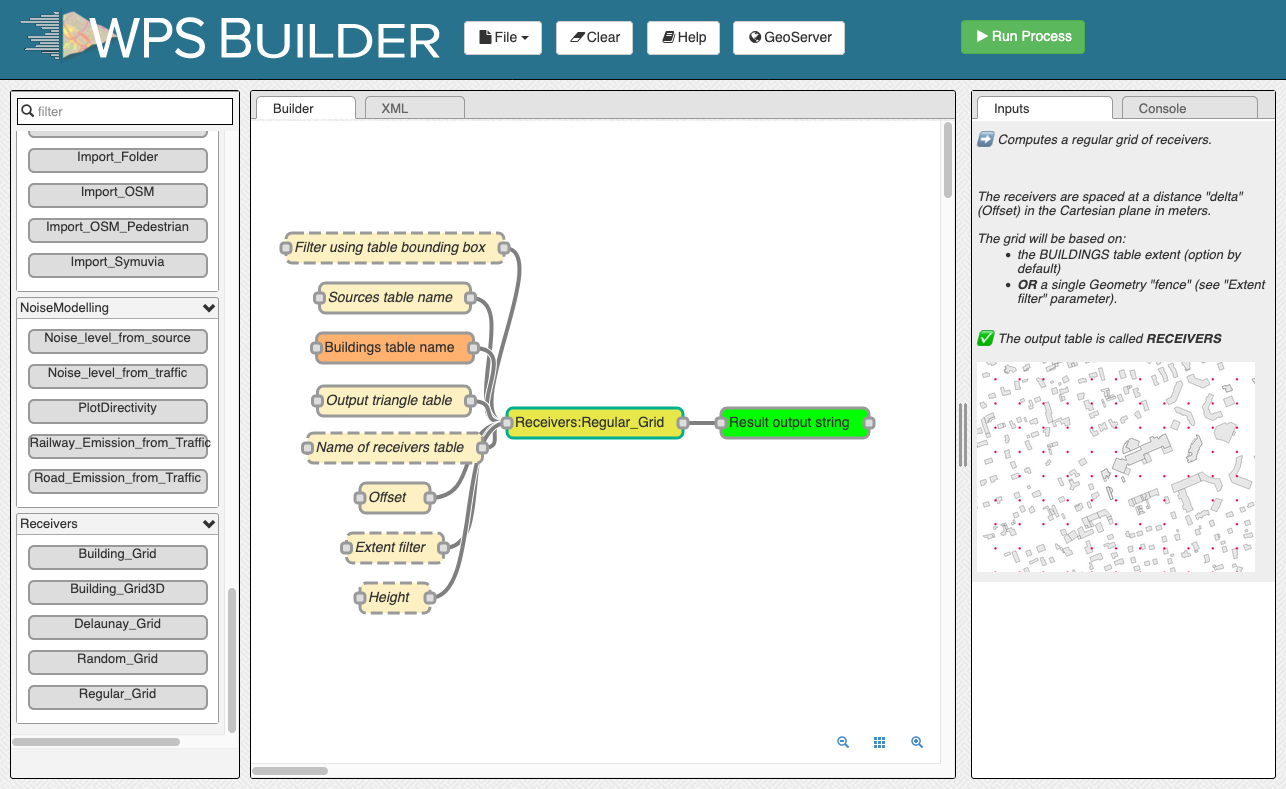
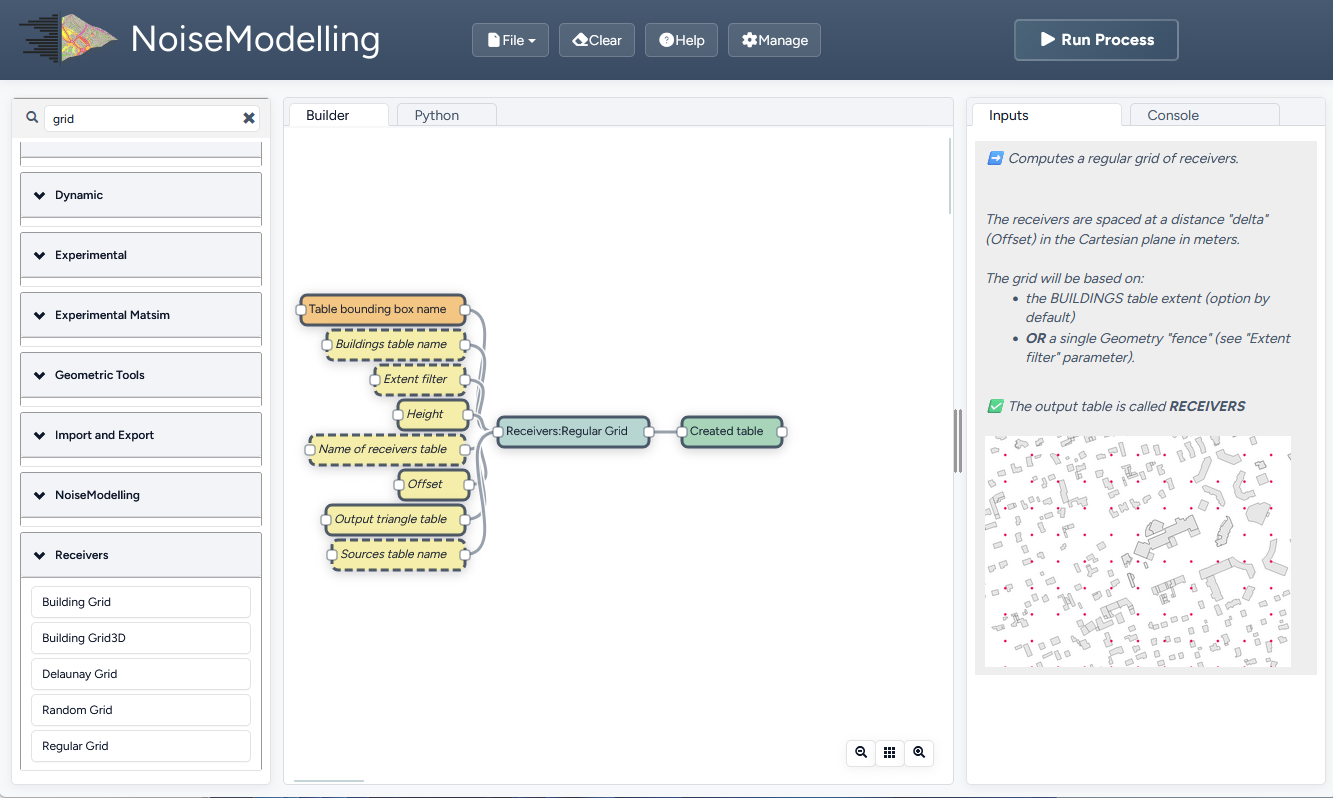
docs: update dynamic tutorial

diff --git a/Docs/Dynamic_Tutorial.rst b/Docs/Dynamic_Tutorial.rst
@@ -1,4 +1,4 @@
-Dynamic Tutorial - GUI
+Dynamic Maps - GUI
 ^^^^^^^^^^^^^^^^^^^^^^^^
 
 Many publications have emerged showcasing the use of **NoiseModelling** to create dynamic maps (see `scientific production`_).
@@ -94,7 +94,7 @@ Use the ``NoiseModelling:Noise_level_from_source`` WPS block
 Compute noise indicators
 ~~~~~~~~~~~~~~~~~~~~~~~~~~
 
-This step is optional, it computes the LA10, LA50 and LA90 at each receiver from the table RECEIVERS_LEVEL
+This step is optional, it computes the LA10, LA50 and LA90 time-aggregated indicators at each receiver from the table RECEIVERS_LEVEL
 
 Use the ``Acoustic_Tools:DynamicIndicators`` wps block
 
@@ -110,7 +110,7 @@ Generate a dynamic iso-contour map for each time period based on the LAEQ of the
 Use the ``Acoustic_Tools:Create_Isosurface`` wps block
 
 #. ``Sound levels table``: Enter ``RECEIVERS_LEVEL``
-#. ``Smooth coefficient``: Enter ``0``
+#. ``Polygon smoothing coefficient``: Enter ``0``
 
 Export Map to QGis
 ~~~~~~~~~~~~~~~~~~~
@@ -148,7 +148,7 @@ Epoch is in millisecond, so we multiply by 1000 and add any base epoch time. The
 
 With the navigation bar of QGis you can select the period to display.
 
-.. figure:: images/tutorial/dynamic/temporal_bar_nav.png
+.. figure:: images/tutorial/dynamic/temporal_bar_nav.gif
    :align: center
    :alt: Layer setting, temporal tab in QGis
 
@@ -189,7 +189,7 @@ Use ``Regular_Grid`` WPS block
 Split geometry and traffic periods
 ~~~~~~~~~~~~~~~~~~~~~~~~~~~~~~~~~~~~
 
-In the table ``ROADS``, the traffic information is given for each period in the ``TIME`` column.
+In the table ``ROADS``, the traffic information is given for each period in the ``PERIOD`` column.
 
 The following WPS block aggregates roads by the geometry and places the associated pair ``IDSOURCE``/``PERIOD``
 with the corresponding road traffic into the ``SOURCES_EMISSION`` table.
@@ -198,9 +198,9 @@ Use the block ``Dynamic::Split_Sources_Period`` :
 
 #. ``Source table name``: Enter ``ROADS``
 #. ``Source index field name``: Enter ``LINK_ID``
-#. ``Source period field name``: Enter ``TIME``. The field time will be renamed to ``PERIOD``.
+#. ``Source period field name``: Enter ``PERIOD``.
 
-Two output table is created ``SOURCES_GEOM`` and ``SOURCES_EMISSION``
+Two output tables are created ``SOURCES_GEOM`` and ``SOURCES_EMISSION``
 
 
 Compute noise level at receiver points for each receiver-period combination
@@ -215,18 +215,22 @@ Use the ``NoiseModelling:Noise_level_from_source`` WPS block
 #. ``Diffraction on horizontal edges``: Check it
 #. ``Order of reflexion``: Enter ``0``
 
+The ``RECEIVERS_LEVEL`` output table is created.
 
 Compute noise indicators
 ~~~~~~~~~~~~~~~~~~~~~~~~~~
 
-This step is optional, it computes the LA10, LA50 and LA90 at each receiver from the table ``LT_GEOM``
+This step is optional, it computes the LA10, LA50 and LA90 time-aggregated indicators at each receiver from the table ``RECEIVERS_LEVEL``.
 
 Use the ``Acoustic_Tools:DynamicIndicators`` wps block
 
 #. ``tableName``: Enter ``RECEIVERS_LEVEL``
 #. ``columnName``: Enter ``LAEQ``
 
-The result table LT_GEOM can be displayed into QGis, if you filter by ``PERIOD``.
+Visualizing results
+~~~~~~~~~~~~~~~~~~~~~~~~~~
+
+The result table ``RECEIVERS_LEVEL`` can be displayed in QGis, if you filter by ``PERIOD``.
 
 Case 3: Spatio-Temporal Data of Moving Sources
 ----------------------------------------------------
@@ -252,7 +256,6 @@ Use ``Import File`` WPS block
 #. ``Path of the input File``: Enter the path of building (can be relative to NoiseModelling): ``resources/Dynamic/receivers_python_method0_50m_pop.shp``
 #. ``Projection identifier``: Enter SRID ``32635``
 #. ``Output table name``: Enter ``receivers``
-#. ``height``: Enter ``1.5``
 
 
 Import the road network
@@ -306,7 +309,7 @@ Compute noise attenuation for each receiver-source pairs
 ~~~~~~~~~~~~~~~~~~~~~~~~~~~~~~~~~~~~~~~~~~~~~~~~~~~~~~~~~~
 
 Unlike the previous tutorial we will use an alternative approach here by storing the attenuation between all sources and receivers first.
-The applying later this attenuation to the emission level for each period.
+ This attenuation will be applied later to the emission levels for each period.
 
 Use the ``NoiseModelling:Noise_level_from_source`` WPS block
 
@@ -334,14 +337,17 @@ Use the ``Dynamic:Noise_From_Attenuation_Matrix`` WPS block
 Compute noise indicators
 ~~~~~~~~~~~~~~~~~~~~~~~~~
 
-This step is optional, it computes the LA10, LA50 and LA90 at each receiver from the table ``LT_GEOM``
+This step is optional, it computes the LA10, LA50 and LA90 time-aggregated indicators at each receiver from the table ``LT_GEOM``
 
 Use the ``Acoustic_Tools:DynamicIndicators`` wps block
 
-#. ``tableName``: Enter ``RECEIVERS_LEVEL``
+#. ``tableName``: Enter ``LT_GEOM``
 #. ``columnName``: Enter ``LAEQ``
 
-The result table LT_GEOM can be displayed into QGis, if you filter by ``PERIOD``.
+Visualizing results
+~~~~~~~~~~~~~~~~~~~~~~~~~~
+
+The result table ``LT_GEOM`` can be displayed into QGis, if you filter by ``PERIOD``.
 
 
 .. note::

diff --git a/README.md b/README.md
@@ -63,7 +63,7 @@ It has been widely used for strategic noise mapping, dynamic maps driven by traf
 *   **Stochastic Traffic Modeling:** Supports both Probabilistic and Poisson distribution methods to realistically simulate vehicle placement and flow on road networks.
 *   **Temporal Visualization:** Compatible with the QGIS Temporal Controller for creating animated noise maps over time.
 
-![QGIS Temporal Controller interface showing a timeline for noise map playback](Docs/images/tutorial/dynamic/temporal_bar_nav.png)
+![QGIS Temporal Controller interface showing a timeline for noise map playback](Docs/images/tutorial/dynamic/temporal_bar_nav.gif)
 *Example: Navigating through a dynamic noise map using the QGIS Temporal Controller.*
 
 ![The NoiseModelling WPS Builder interface](Docs/images/WPS_Builder/wps_demo.png)